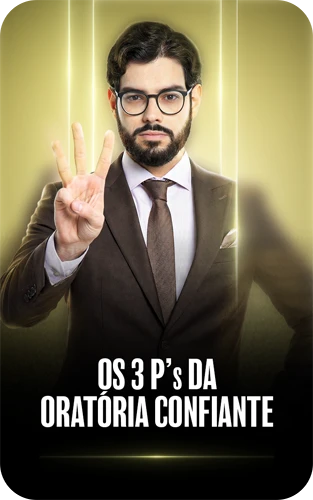
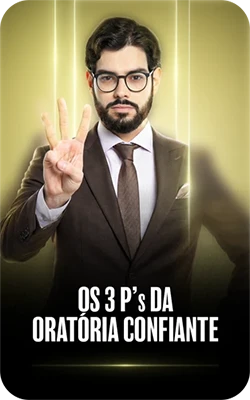
fix(modules): adjust desktop height to 400px and add cache buster v2

diff --git a/src/components/sections/Modules.tsx b/src/components/sections/Modules.tsx
@@ -43,9 +43,9 @@ export function Modules() {
                         {Array.from({ length: 6 }).map((_, idx) => (
                             <div key={idx} className="shrink-0">
                                 <img
-                                    src={`assets/modulo-0${idx + 1}.webp`}
+                                    src={`assets/modulo-0${idx + 1}.webp?v=2`}
                                     alt={`Módulo ${idx + 1}`}
-                                    className="h-[500px] w-auto object-contain"
+                                    className="h-[400px] w-auto object-contain"
                                     loading="lazy"
                                     decoding="async"
                                 />
@@ -65,9 +65,9 @@ export function Modules() {
                                 slides={Array.from({ length: 6 }).map((_, idx) => (
                                     <div key={idx} className="w-full flex items-center justify-center">
                                         <picture>
-                                            <source media="(max-width: 768px)" srcSet={`assets/modulo-0${idx + 1}-mobile.webp`} />
+                                            <source media="(max-width: 768px)" srcSet={`assets/modulo-0${idx + 1}-mobile.webp?v=2`} />
                                             <img
-                                                src={`assets/modulo-0${idx + 1}.webp`}
+                                                src={`assets/modulo-0${idx + 1}.webp?v=2`}
                                                 alt={`Módulo ${idx + 1}`}
                                                 className="h-[500px] w-auto object-contain"
                                                 loading="lazy"
